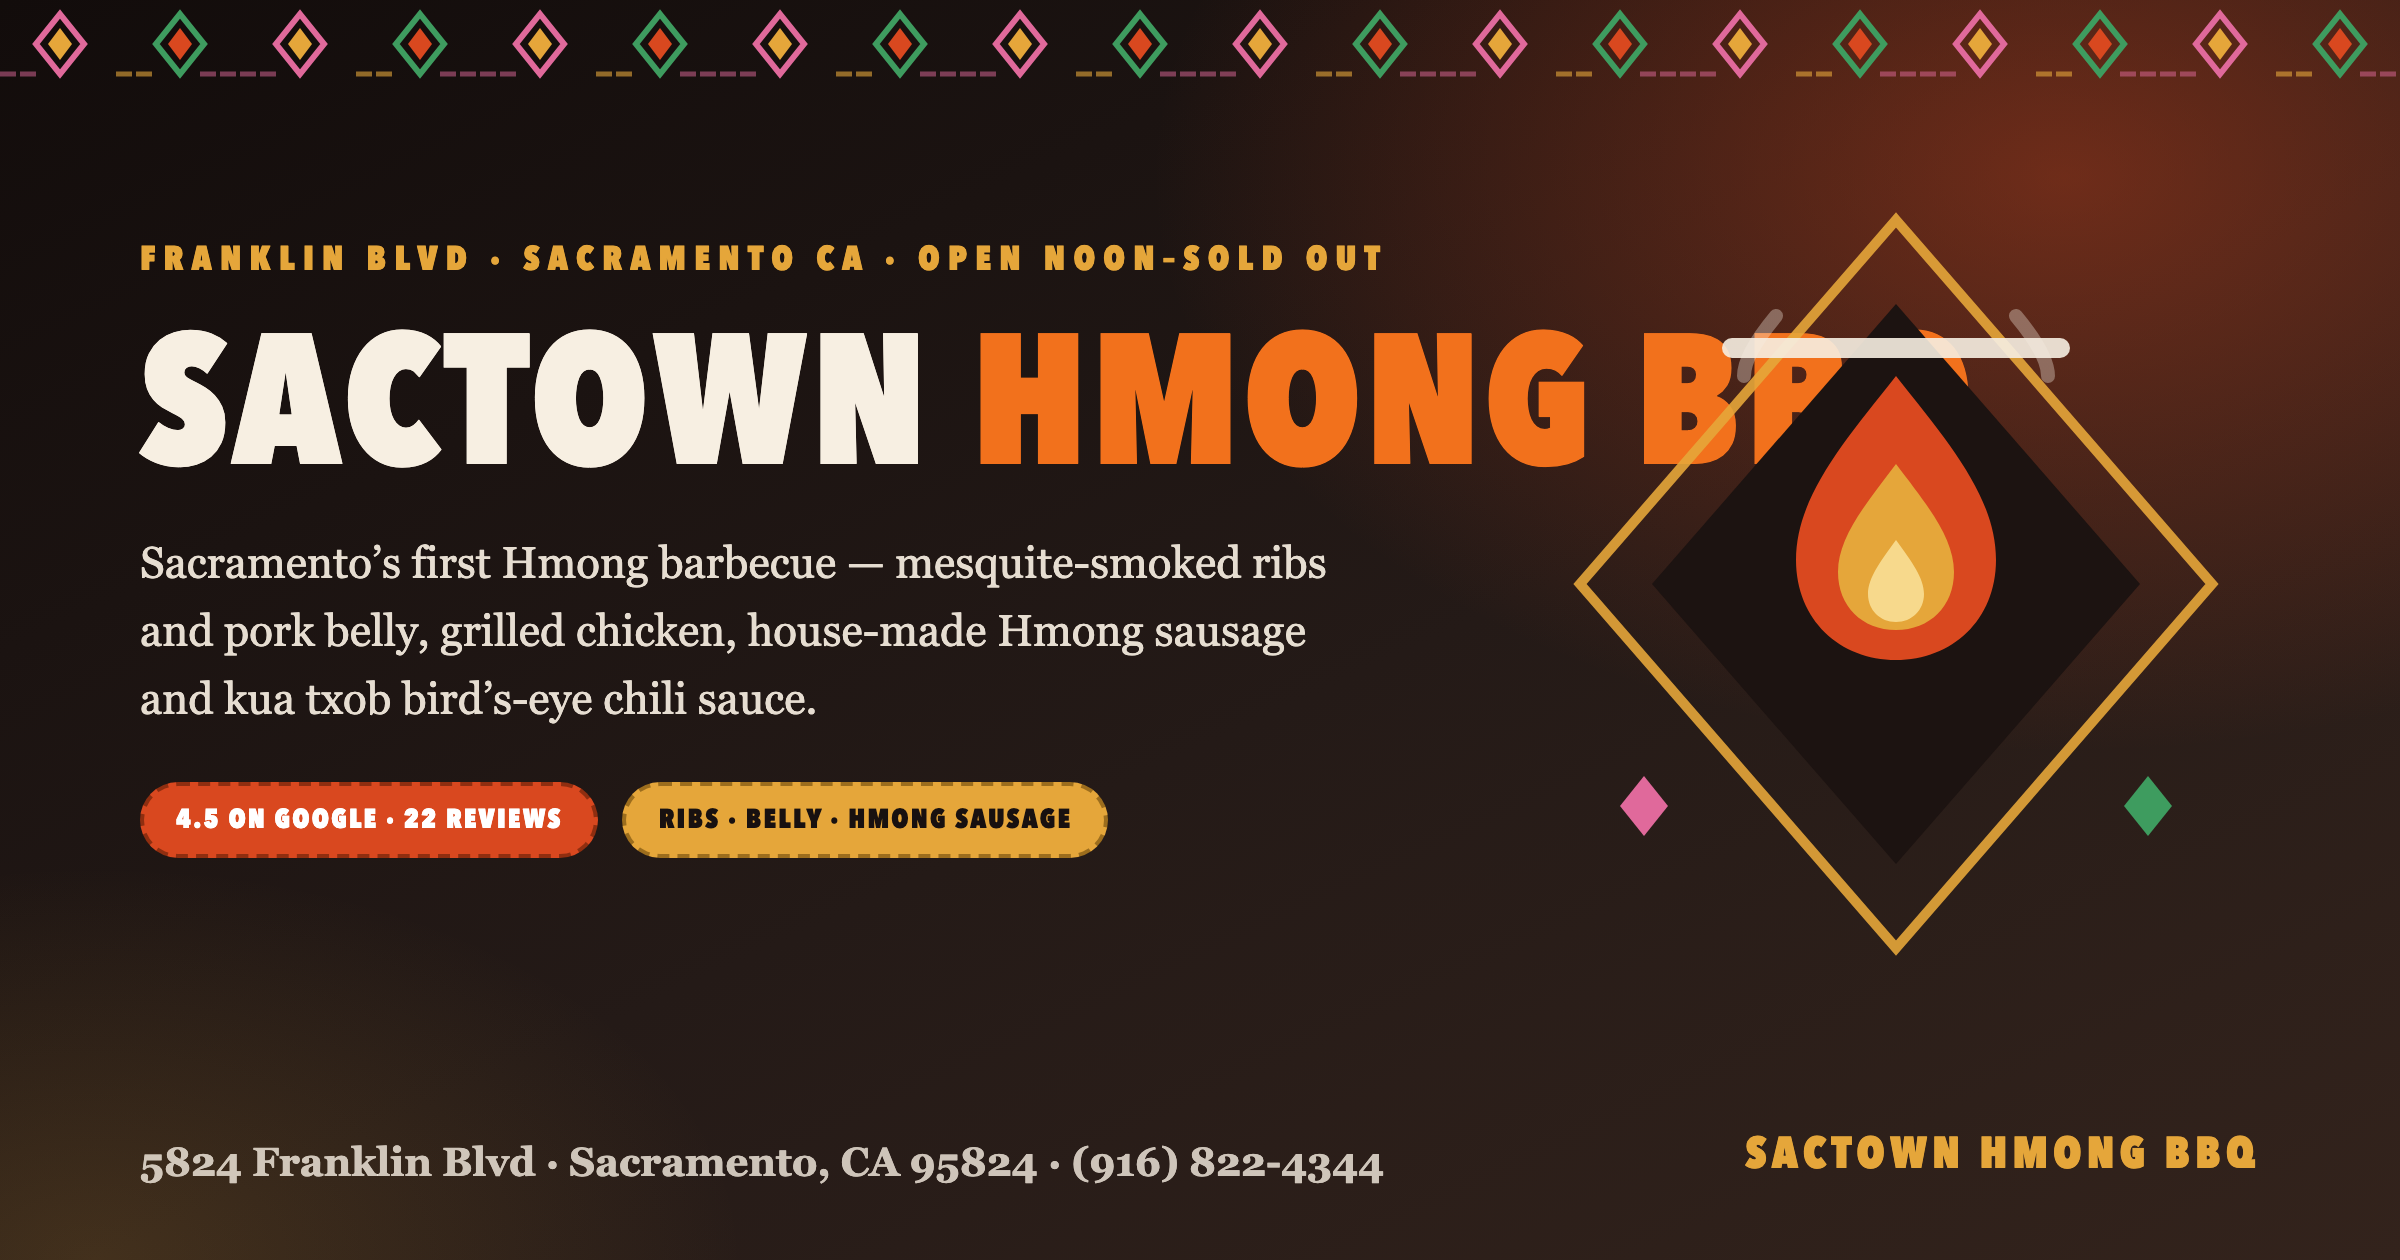
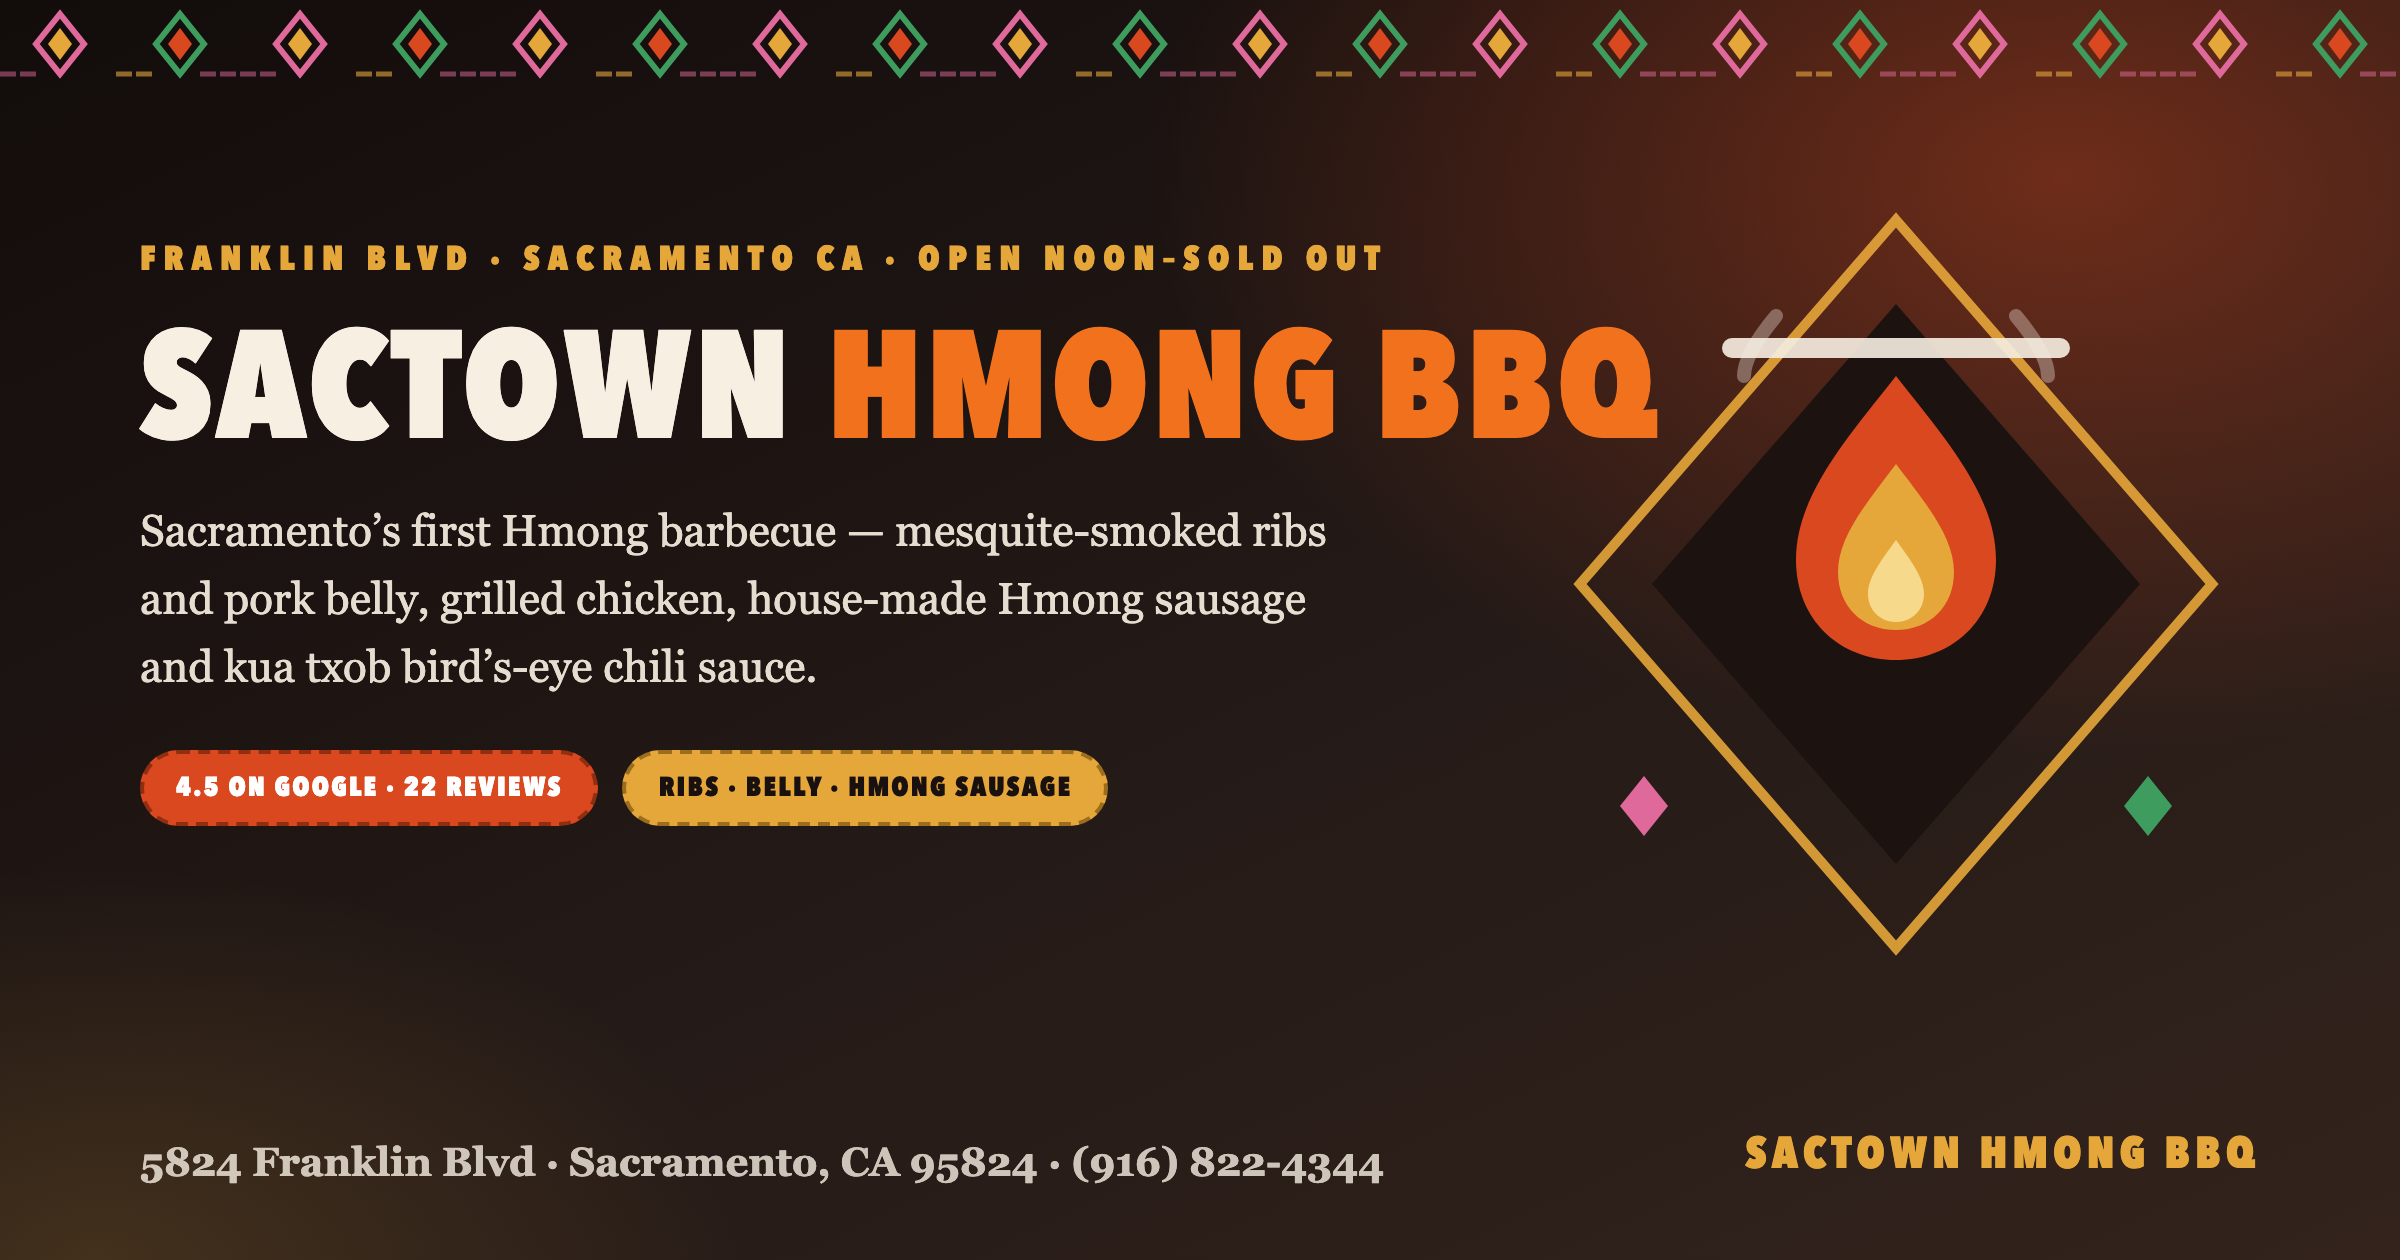
og.png: title 92->76px — measured 919px ink overflow into art zone, fixed with 14px stroke clearance

Changed region(s): [[0.0312, 0.4024, 0.5625, 0.681], [0.0625, 0.2476, 0.7812, 0.3714]]

diff --git a/og-src.html b/og-src.html
@@ -11,7 +11,7 @@ body{position:relative;background:radial-gradient(760px 480px at 86% 14%,rgba(21
 .stitch{position:absolute;left:0;top:0;width:1200px;height:44px}
 .wrap{position:absolute;left:70px;top:118px;width:660px}
 .kick{font-family:var(--disp);font-size:17px;font-weight:800;letter-spacing:.24em;text-transform:uppercase;color:#e5a63a;white-space:nowrap}
-h1{font-family:var(--disp);font-size:92px;line-height:1.0;letter-spacing:.02em;font-weight:800;text-transform:uppercase;margin:16px 0 16px;color:#f7efe2;white-space:nowrap}
+h1{font-family:var(--disp);font-size:76px;line-height:1.0;letter-spacing:.02em;font-weight:800;text-transform:uppercase;margin:16px 0 16px;color:#f7efe2;white-space:nowrap}
 h1 em{font-style:normal;color:#f2711c}
 .sub{font-size:22px;line-height:1.55;color:rgba(247,239,226,.92);max-width:620px}
 .stubs{margin-top:24px;display:flex;gap:12px;white-space:nowrap}
